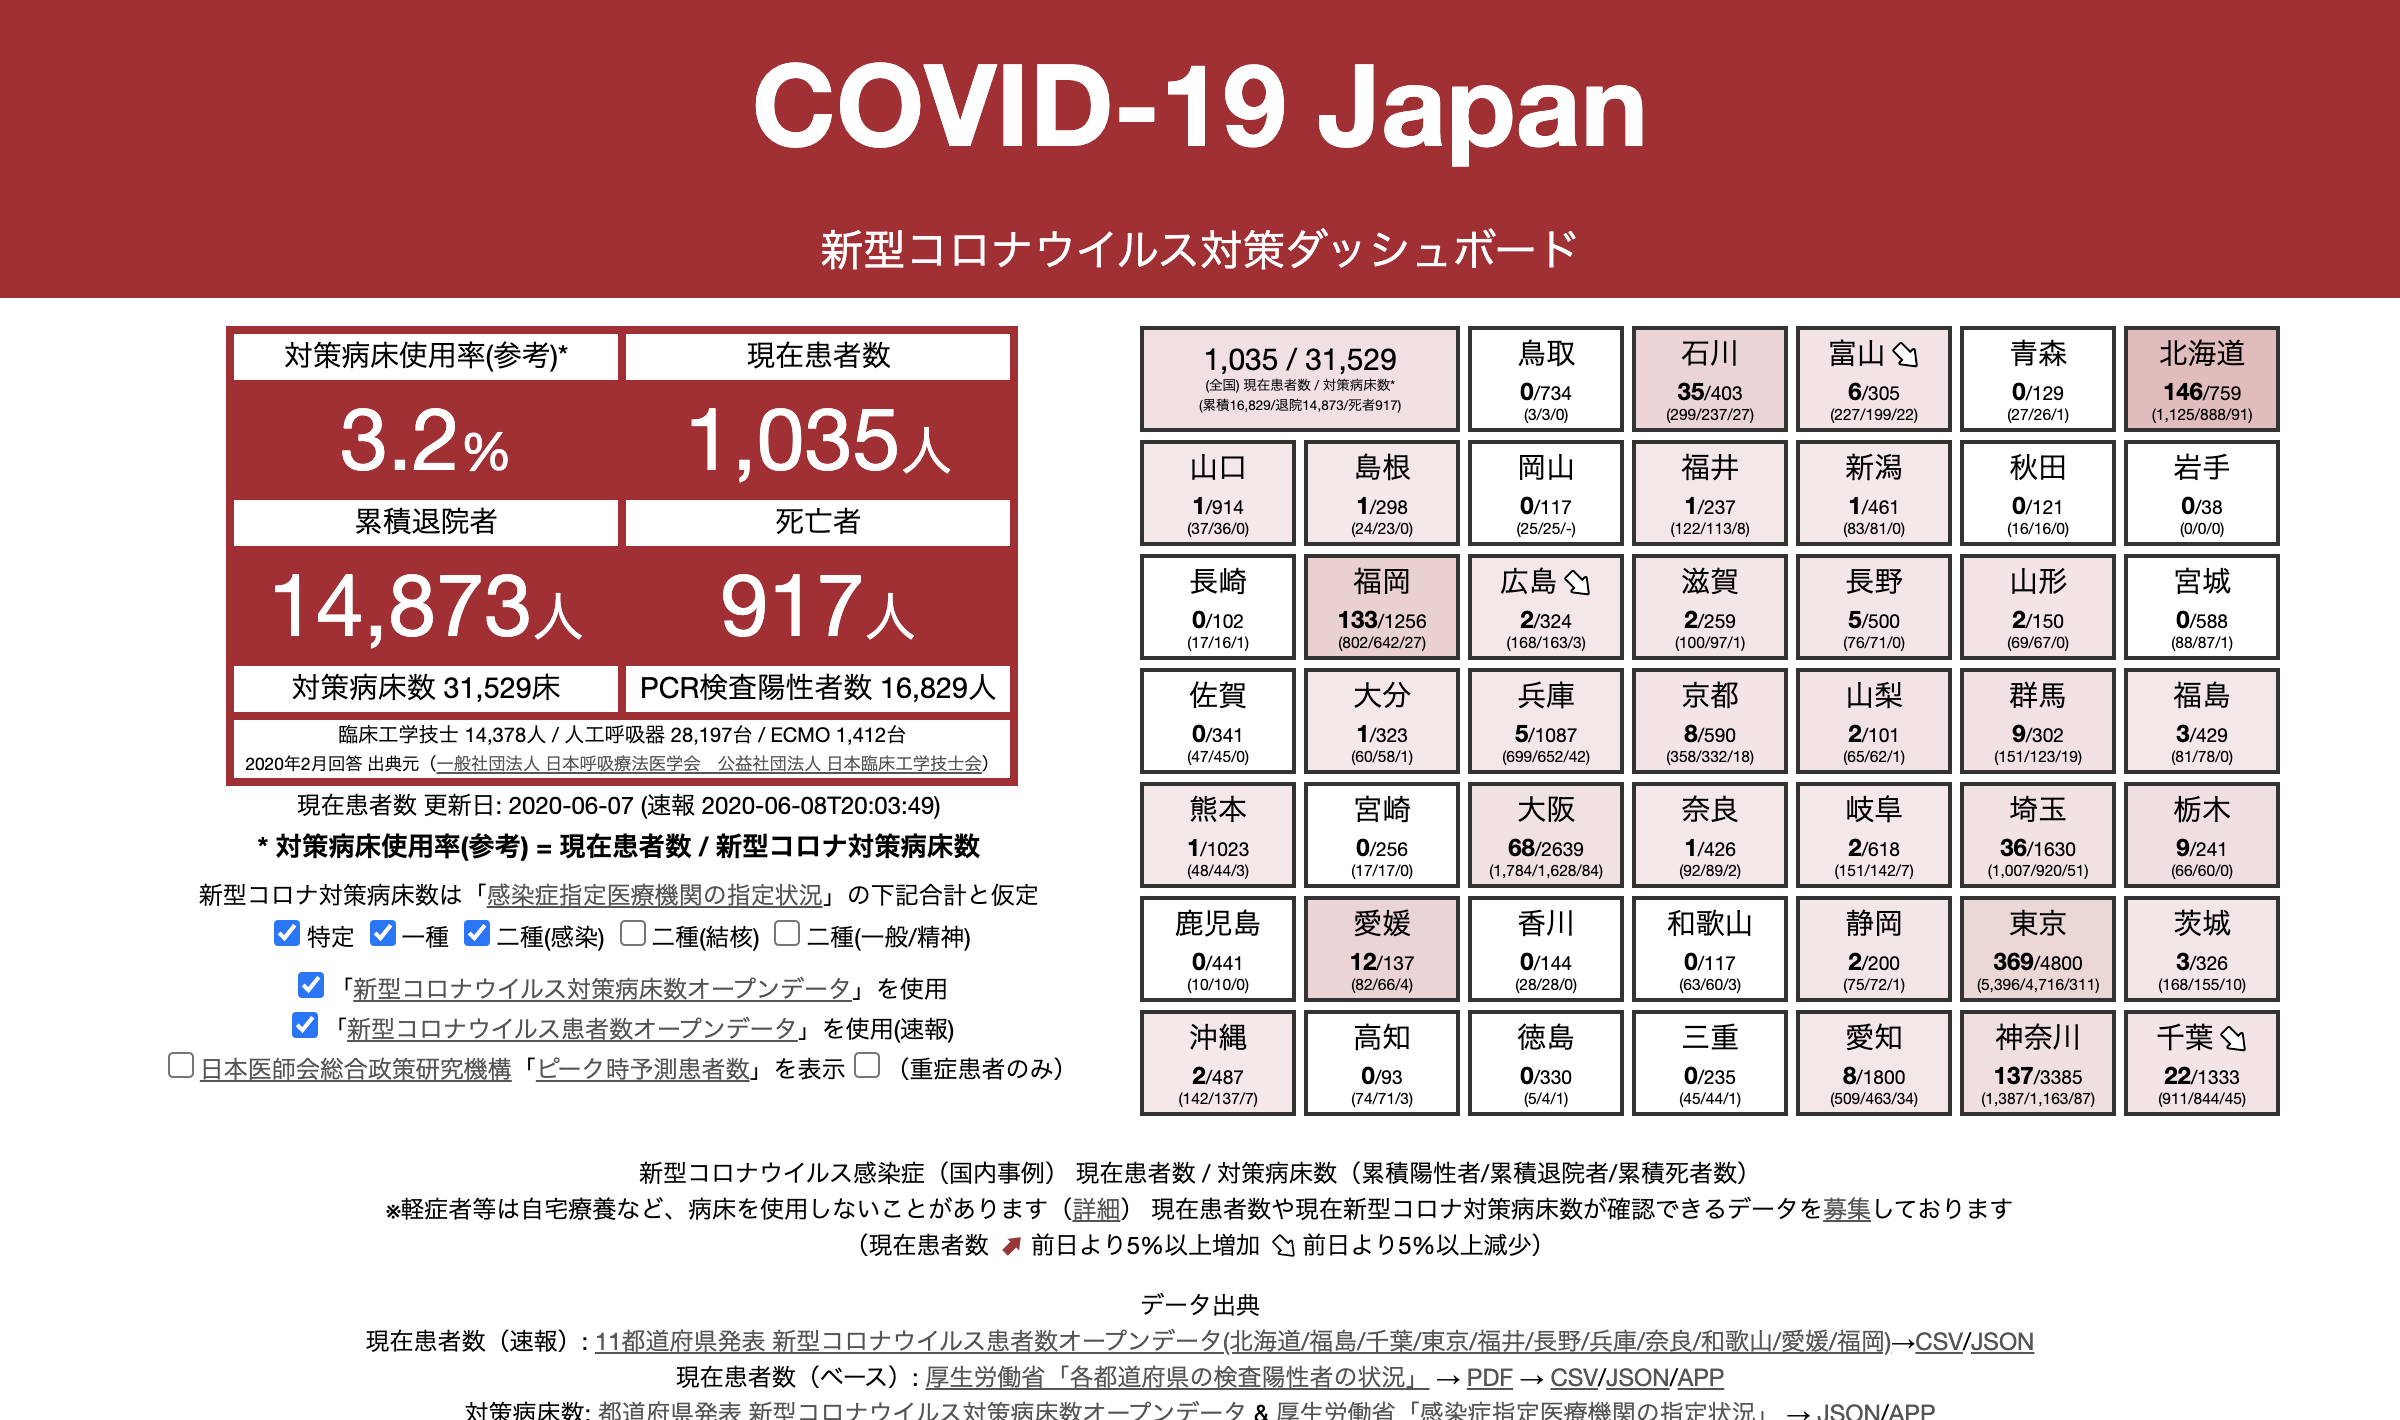
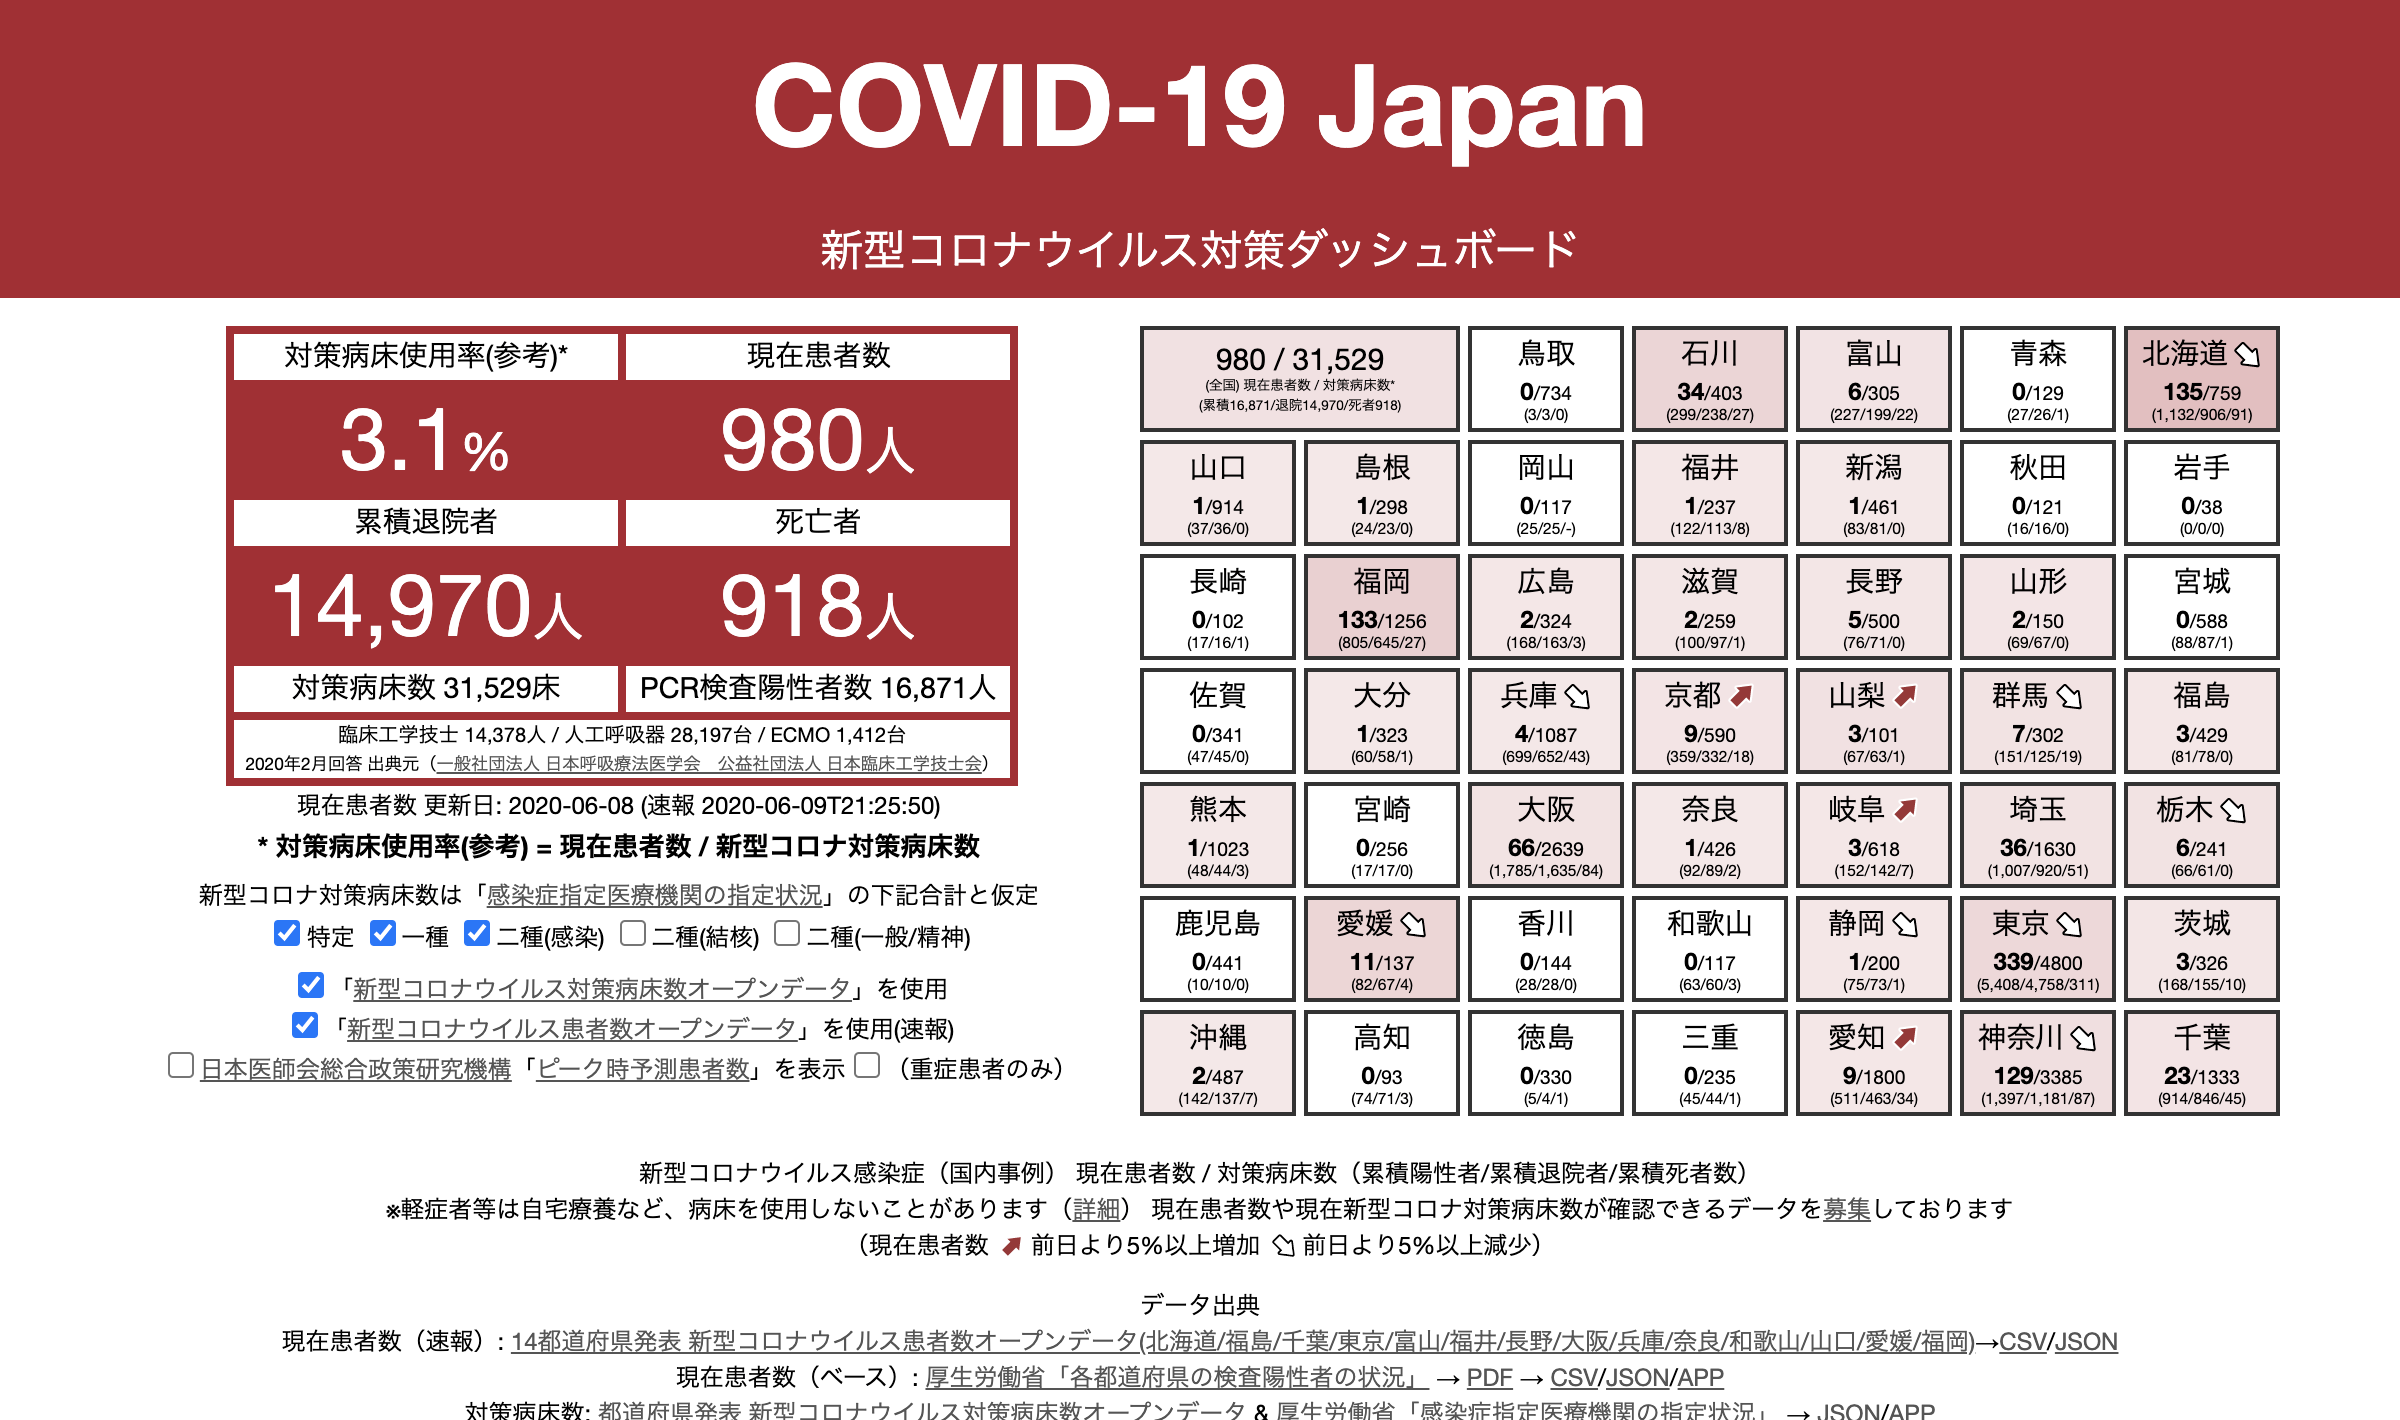
データ更新

diff --git a/index.html b/index.html
@@ -19,8 +19,8 @@ gtag('config', 'UA-162141832-1')
 <link rel="apple-touch-icon" href="covid19japan-leargeicon.png"/>
 <meta name="msapplication-square310x310logo" content="covid19japan-leargeicon.png"/>
 <meta name="twitter:card" content="summary_large_image"/>
-<meta property="og:image"  content="https://www.stopcovid19.jp/ogp/covid19japan_ogp_20200608202839.png"/>
-<meta name="twitter:image" content="https://www.stopcovid19.jp/ogp/covid19japan_ogp_20200608202839.png"/>
+<meta property="og:image"  content="https://www.stopcovid19.jp/ogp/covid19japan_ogp_20200609221727.png"/>
+<meta name="twitter:image" content="https://www.stopcovid19.jp/ogp/covid19japan_ogp_20200609221727.png"/>
 
 <meta name="viewport" content="width=device-width, initial-scale=1.0"/>
 <meta name="format-detection" content="telephone=no"/>
